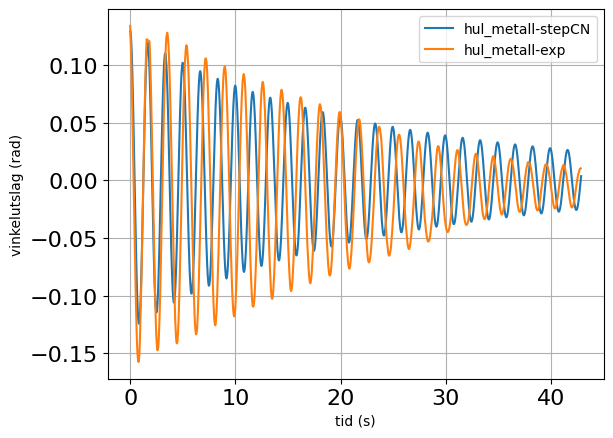
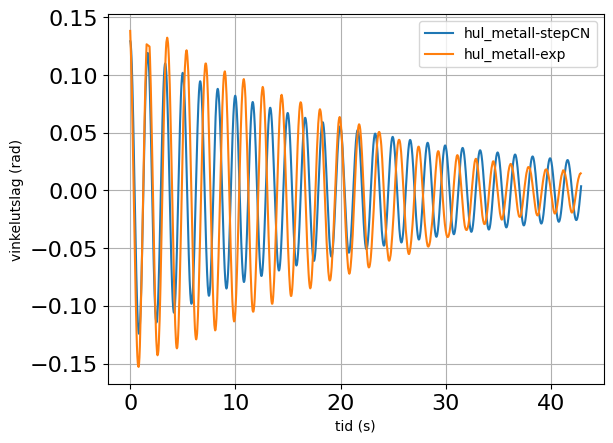
index-feil fikset

Changed region(s): [[0.0, 0.0, 0.9918, 0.7123], [0.186, 0.8607, 0.9918, 0.9498], [0.062, 0.7717, 0.9918, 0.8607]]

diff --git a/src/analyse.py b/src/analyse.py
@@ -38,7 +38,7 @@ def read_data(filepath: Path) -> tuple[np.ndarray, np.ndarray]:
 
 def transform_x_to_phi(x_values: np.ndarray, cylinder: Cylinder) -> np.ndarray:
     return np.arcsin(
-        (x_values + 0.2) / cylinder.L
+        (x_values + 0.4) / cylinder.L
     )  # Lagt til et lite skift pga skjevhet i filmen
 
 
@@ -181,8 +181,8 @@ def generate_combined_plots(step_func_name: str):
 def optimize_numerical():
     for path, cylinder in zip(get_filepaths(is_numerical=False), CYLINDERS):
         error_func = partial(error_numerical, filepath=path, cylinder=cylinder)
-        # guess_0 = [0.024, 0.0001, 0.20]  # delta, phi_R, beta
-        guess_0 = [0.0, 0.0, 0]  # delta, phi_R, beta
+        guess_0 = [0.024, 0.0001, 0.20]  # delta, phi_R, beta
+        # guess_0 = [0.01, 0.01, 0.01]  # delta, phi_R, beta
         res = minimize(
             error_func,
             guess_0,
@@ -233,12 +233,17 @@ def compare_arr_numerical_experimental(
 ) -> tuple[tuple[np.ndarray, np.ndarray], tuple[np.ndarray, np.ndarray]]:
     times_num = np.round(num_data[0], 2)
     times_exp = np.round(exp_data[0], 2)
-    list_indexing = [value in times_exp for value in times_num]
-    num_values_filtered = num_data[1][list_indexing]
-    num_times_filtered = num_data[0][list_indexing]
-    # print(num_times_filtered)
+    values_exp = exp_data[1]
 
-    return (num_times_filtered, num_values_filtered), exp_data
+    list_indexing = [time in times_exp for time in times_num]
+    num_times_filtered = times_num[list_indexing]
+    num_values_filtered = num_data[0][list_indexing]
+
+    list_indexing = [time in num_times_filtered for time in times_exp]
+    times_exp = times_exp[list_indexing]
+    values_exp = values_exp[list_indexing]
+
+    return (num_times_filtered, num_values_filtered), (times_exp, values_exp)
 
 
 def diff_numerical_experimental(

diff --git a/src/testing.py b/src/testing.py
@@ -1,3 +1,11 @@
 import numpy as np
 
-print(round(0.0400040006, 3))
+a = np.array([1, 2, 3, 4, 5])
+b = np.array([6, 7, 8, 9, 10, 11, 12, 13, 15, 16])
+
+len_diff = abs(len(a) - len(b))
+if len(a) < len(b):
+    a = np.concatenate((a, b[len(b) - len_diff :]))
+
+print(a)
+print(b)
